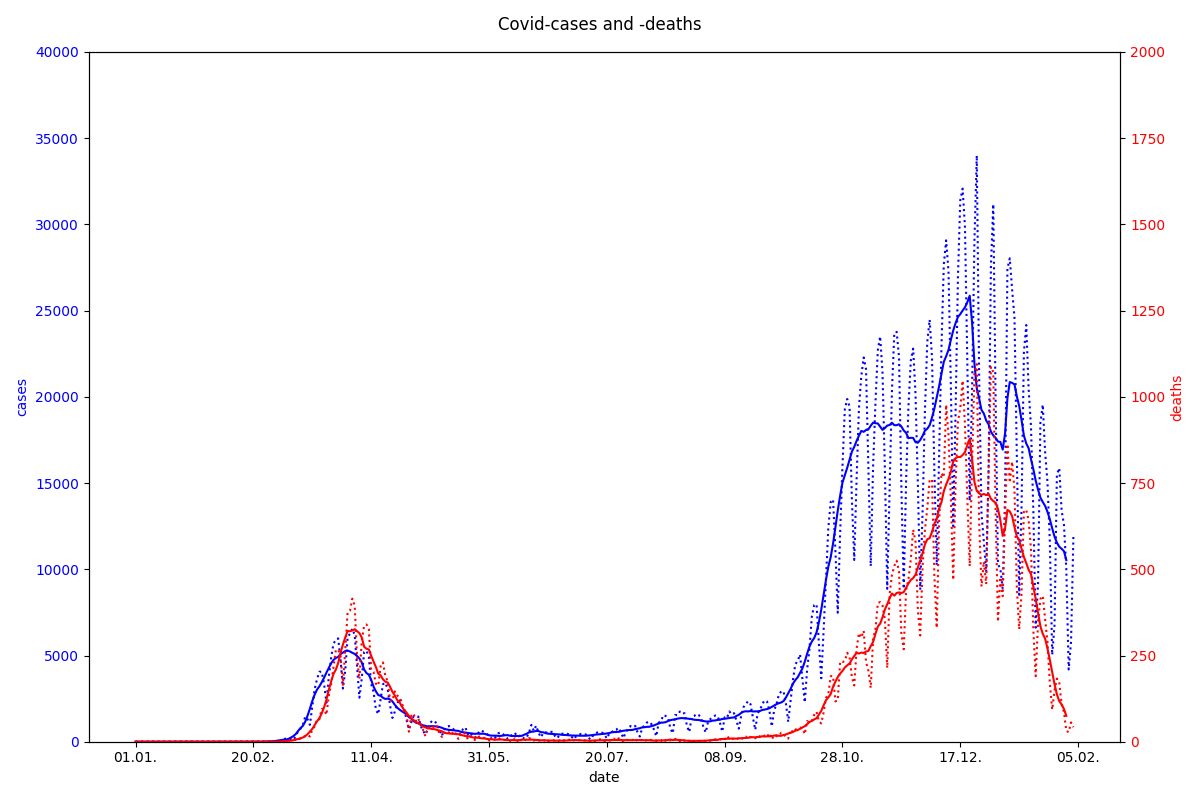
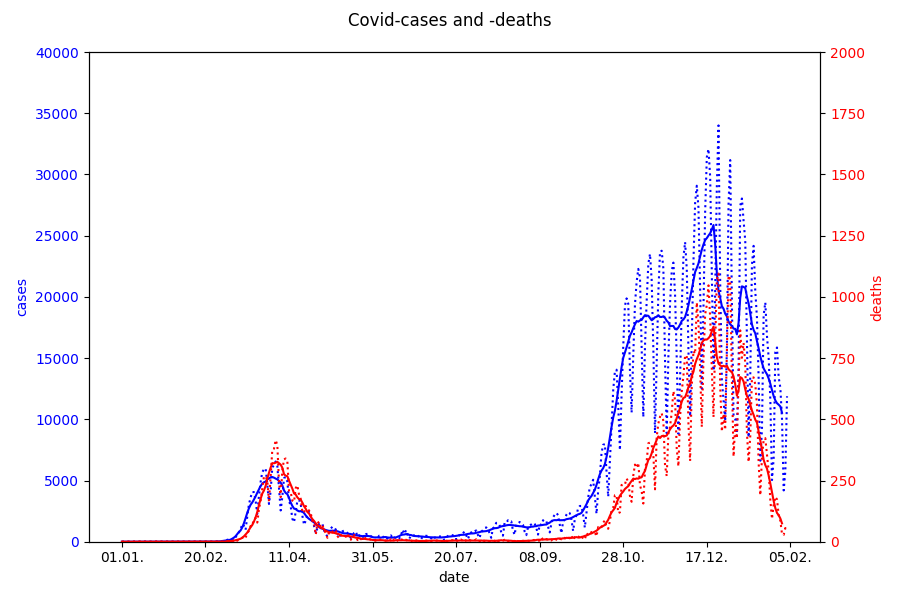
update plot size

Changed region(s): [[0.0, 0.0, 0.9956, 0.99]]

diff --git a/plot.py b/plot.py
@@ -16,7 +16,7 @@ def average(data):
 
 
 def plot_graph(days, name):
-    fig, ax1 = plt.subplots(1, figsize=(12,8))
+    fig, ax1 = plt.subplots(1, figsize=(9,6))
     fig.suptitle('Covid-cases and -deaths')
     ax1.xaxis.set_major_formatter(mdates.DateFormatter('%d.%m.'))
     ax1.set_xlabel('date')
